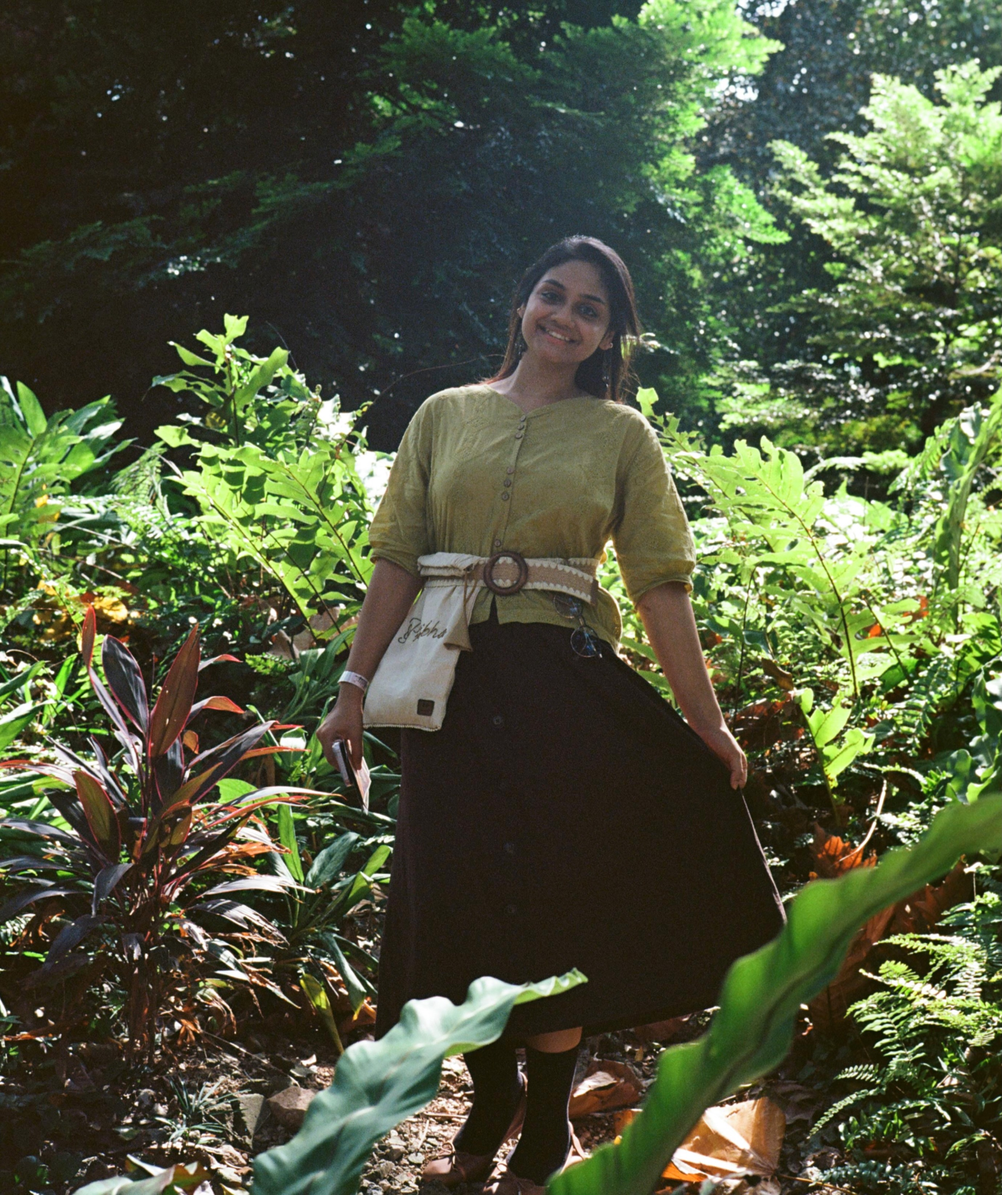
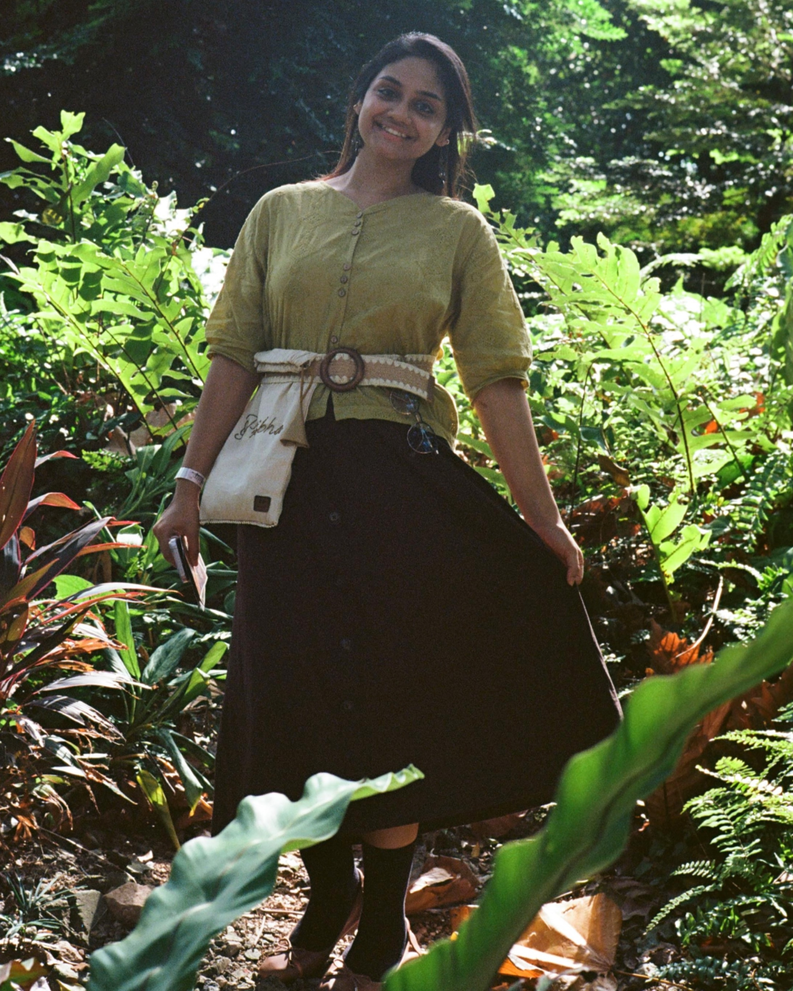
Crop the home photo closer and centre it
Trim the space above the head and narrow to 4:5, keeping the bottom
edge, so the face is larger. Set photo focus to center so the
side-by-side crop trims both sides evenly.

diff --git a/src/content/pages/home.md b/src/content/pages/home.md
@@ -2,7 +2,7 @@
 heading: Hi, I'm Dundu :)
 photo: ../../assets/home/e16aea46-44f3-404f-9dcc-4f41a13ad136.jpeg
 photoAlt: Dundu smiling outdoors in front of a city skyline
-photoFocus: auto
+photoFocus: center
 ---
 Welcome to my little corner of the internet! I find joy in sharing my love for all things creative. Here, I share my journey through a wide range of hobbies — from learning new languages, reading books, to painting with watercolors, sewing dresses, learning music, cooking up something delicious, and other hands-on crafts.
 
